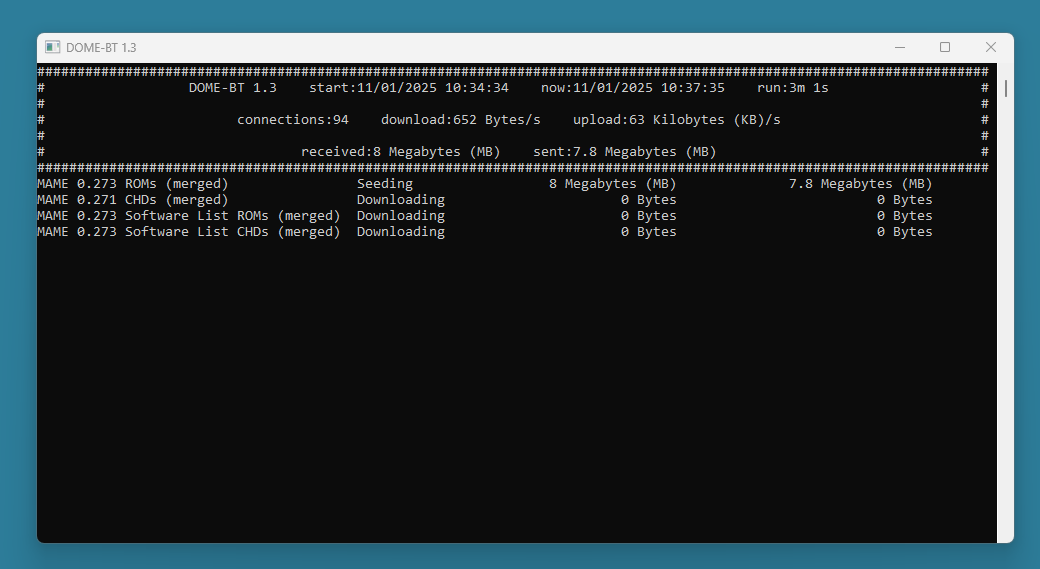
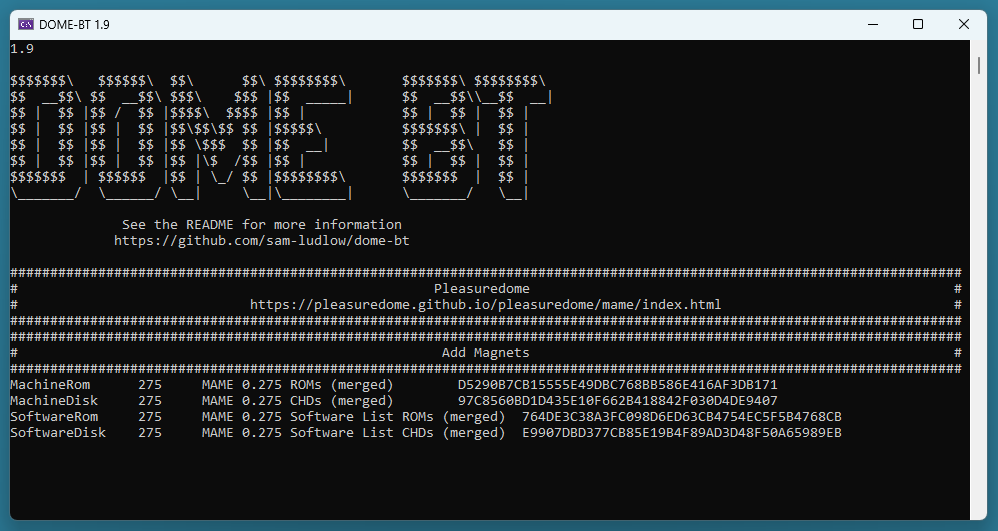
API files on seperate EP, clear old cache files

diff --git a/WebServer.cs b/WebServer.cs
@@ -190,6 +190,8 @@ namespace dome_bt
 			
 			json.cache_directory = engine.Settings.CacheDirectory;
 
+			json.priorities = new JArray(Enum.GetNames(typeof(Priority)));
+
 			//
 			// Magnets
 			//
@@ -197,13 +199,23 @@ namespace dome_bt
 			dynamic magnets = new JArray();
 			foreach (AssetType magnetType in Globals.Magnets.Keys)
 			{
+				MagnetInfo info = Globals.Magnets[magnetType];
+
 				dynamic result = new JObject();
 
 				result.type = magnetType.ToString();
-				result.name = Globals.Magnets[magnetType].Name;
-				result.version = Globals.Magnets[magnetType].Version;
-				result.magnet_link = Globals.Magnets[magnetType].Magnet;
-				result.torrent_available = Globals.Magnets[magnetType].TorrentManager != null ? "true" : "false";
+				result.name = info.Name;
+				result.version = info.Version;
+				result.hash = info.Hash;
+				result.magnet_link = info.Magnet;
+
+				result.torrent_available = info.TorrentManager != null ? true : false;
+
+				if (info.MagnetLink != null)
+				{
+					result.announce_urls = new JArray(info.MagnetLink.AnnounceUrls);
+					result.webseeds = new JArray(info.MagnetLink.Webseeds);
+				}
 
 				magnets.Add(result);
 			}
@@ -270,6 +282,7 @@ namespace dome_bt
 				dynamic result = new JObject();
 
 				result.name = torrentManager.Name;
+				result.hash = torrentManager.MagnetLink.InfoHashes.V1OrV2.ToHex();
 				result.file_count = torrentManager.Files.Count;
 				result.state = torrentManager.State.ToString();
 				result.has_metadata = torrentManager.HasMetadata;
@@ -289,22 +302,6 @@ namespace dome_bt
 				result.bytes_received_text = Tools.DataSizeText(torrentManager.Monitor.DataBytesReceived);
 				result.bytes_sent_text = Tools.DataSizeText(torrentManager.Monitor.DataBytesSent);
 
-				dynamic files = new JArray();
-
-				foreach (var fileInfo in torrentManager.Files.Where(f => f.Priority != Priority.DoNotDownload && f.Priority != Priority.Normal))
-				{
-					dynamic file = new JObject();
-
-					file.path = fileInfo.Path;
-					file.priority = fileInfo.Priority.ToString();
-					file.length = fileInfo.Length;
-					file.percent_complete = fileInfo.BitField.PercentComplete;
-
-					files.Add(file);
-
-				}
-				result.files = files;
-
 				torrents.Add(result);
 			}
 			json.torrents = torrents;
@@ -312,16 +309,37 @@ namespace dome_bt
 			writer.WriteLine(json.ToString(Formatting.Indented));
 		}
 
-		// depreciated
-		public void _api_download(HttpListenerContext context, StreamWriter writer)
+		public void _api_files(HttpListenerContext context, StreamWriter writer)
 		{
-			string filename = context.Request.QueryString["filename"] ?? throw new ApplicationException("filename not passed");
+			string hash = context.Request.QueryString["hash"] ?? throw new ApplicationException("hash not passed");
 
-			context.Response.Headers["Content-Type"] = "application/octet-stream";
-			context.Response.Headers["Content-Disposition"] = $"attachment; filename=\"{Path.GetFileName(filename)}\"";
+			if (Globals.BitTorrent.TorrentManagers.ContainsKey(hash) == false)
+				throw new ApplicationException("hash not found");
 
-			using (FileStream fileStream = new FileStream(filename, FileMode.Open, FileAccess.Read))
-				fileStream.CopyTo(context.Response.OutputStream);
+			string priority = context.Request.QueryString["priority"];
+
+			TorrentManager manager = Globals.BitTorrent.TorrentManagers[hash];
+
+			var managerFiles = manager.Files;
+			if (priority != null)
+				managerFiles = manager.Files.Where(f => f.Priority == (Priority)Enum.Parse(typeof(Priority), priority)).ToList();
+
+			JArray files = new JArray();
+
+			foreach (var fileInfo in managerFiles)
+			{
+				dynamic file = new JObject();
+
+				file.path = fileInfo.Path;
+				file.priority = fileInfo.Priority.ToString();
+				file.length = fileInfo.Length;
+				file.piece_count = fileInfo.PieceCount;
+				file.percent_complete = fileInfo.BitField.PercentComplete;
+
+				files.Add(file);
+			}
+
+			writer.WriteLine(files.ToString(Formatting.Indented));
 		}
 
 		public void _api_file(HttpListenerContext context, StreamWriter writer)
@@ -406,9 +424,6 @@ namespace dome_bt
 			file.piece_start_index = fileInfo.StartPieceIndex;
 			file.piece_count = fileInfo.PieceCount;
 
-			// depreciated
-			file.url = $"{Globals.ListenAddress}api/download?filename={Uri.EscapeDataString(fileInfo.FullPath)}";
-
 			writer.WriteLine(file.ToString(Formatting.Indented));
 
 		}
@@ -455,6 +470,9 @@ namespace dome_bt
 
 <h4>Software Disk</h4>
 <a href=""http://localhost:12381/api/file?list=@&software=@&disk=@"" target=""_blank"" >http://localhost:12381/api/file?list=@&software=@&disk=@</a>
+
+<h4>Torrent File List</h4>
+<a href=""http://localhost:12381/api/files?hash=@&priority=@"" target=""_blank"" >http://localhost:12381/api/files?hash=@&priority=@</a>
 
 </body>
 </html>

diff --git a/Processor.cs b/Processor.cs
@@ -6,6 +6,7 @@ using System.Diagnostics;
 using System.Collections.Generic;
 
 using MonoTorrent.Client;
+using MonoTorrent;
 
 namespace dome_bt
 {
@@ -70,6 +71,8 @@ namespace dome_bt
 		public string Name;
 		public string Version;
 		public string Magnet;
+		public string Hash;
+		public MagnetLink MagnetLink;
 
 		public TorrentManager TorrentManager;
 	}
@@ -77,20 +80,18 @@ namespace dome_bt
 	public class Processor
 	{
 		private readonly string WelcomeText = @"@VERSION
-'########:::'#######::'##::::'##:'########::::::::::'########::'########:
- ##.... ##:'##.... ##: ###::'###: ##.....::::::::::: ##.... ##:... ##..::
- ##:::: ##: ##:::: ##: ####'####: ##:::::::::::::::: ##:::: ##:::: ##::::
- ##:::: ##: ##:::: ##: ## ### ##: ######:::'#######: ########::::: ##::::
- ##:::: ##: ##:::: ##: ##. #: ##: ##...::::........: ##.... ##:::: ##::::
- ##:::: ##: ##:::: ##: ##:.:: ##: ##:::::::::::::::: ##:::: ##:::: ##::::
- ########::. #######:: ##:::: ##: ########:::::::::: ########::::: ##::::
-........::::.......:::..:::::..::........:::::::::::........::::::..:::::
+
+$$$$$$$\   $$$$$$\  $$\      $$\ $$$$$$$$\       $$$$$$$\ $$$$$$$$\ 
+$$  __$$\ $$  __$$\ $$$\    $$$ |$$  _____|      $$  __$$\\__$$  __|
+$$ |  $$ |$$ /  $$ |$$$$\  $$$$ |$$ |            $$ |  $$ |  $$ |   
+$$ |  $$ |$$ |  $$ |$$\$$\$$ $$ |$$$$$\          $$$$$$$\ |  $$ |   
+$$ |  $$ |$$ |  $$ |$$ \$$$  $$ |$$  __|         $$  __$$\   $$ |   
+$$ |  $$ |$$ |  $$ |$$ |\$  /$$ |$$ |            $$ |  $$ |  $$ |   
+$$$$$$$  | $$$$$$  |$$ | \_/ $$ |$$$$$$$$\       $$$$$$$  |  $$ |   
+\_______/  \______/ \__|     \__|\________|      \_______/   \__|   
 
               See the README for more information
              https://github.com/sam-ludlow/dome-bt
-
-            More information can be found at MAME-AO
-https://github.com/sam-ludlow/mame-ao?tab=readme-ov-file#bittorrent
 
 ";
 
@@ -104,8 +105,6 @@ https://github.com/sam-ludlow/mame-ao?tab=readme-ov-file#bittorrent
 
 			WebServer webServer = new WebServer();
 			webServer.StartListener();
-
-			//	Process.Start(new ProcessStartInfo(Globals.ListenAddress) { UseShellExecute = true });
 
 			Globals.BitTorrent = new BitTorrent();
 			Globals.BitTorrent.Run();

diff --git a/BitTorrent.cs b/BitTorrent.cs
@@ -15,6 +15,8 @@ namespace dome_bt
 	{
 		public ClientEngine Engine;
 
+		public Dictionary<string, TorrentManager> TorrentManagers = new Dictionary<string, TorrentManager>();
+
 		private CancellationTokenSource Cancellation = new CancellationTokenSource();
 
 		private int MaximumConnectionsPerTorrent = 50;
@@ -114,14 +116,17 @@ namespace dome_bt
 				if (MagnetLink.TryParse(magnetInfo.Magnet, out magnetLink) == false)
 					throw new ApplicationException($"Bad magnet link: {magnetInfo.Magnet}");
 
+				magnetInfo.MagnetLink = magnetLink;
+
 				var torrentSettings = new TorrentSettingsBuilder
 				{
 					MaximumConnections = MaximumConnectionsPerTorrent,
 				};
 
 				magnetInfo.TorrentManager = await Engine.AddAsync(magnetLink, Globals.DirectoryDownloads, torrentSettings.ToSettings());
+				magnetInfo.Hash = magnetLink.InfoHashes.V1OrV2.ToHex();
 
-				Console.WriteLine($"{assetType}	{magnetInfo.Version}	{magnetInfo.Name}");
+				Console.WriteLine($"{assetType}	{magnetInfo.Version}	{magnetInfo.Name}	{magnetInfo.Hash}");
 
 				pad = Math.Max(pad, magnetInfo.Name.Length);
 			}
@@ -164,11 +169,28 @@ namespace dome_bt
 
 					await manager.StartAsync();
 
+					TorrentManagers.Add(manager.MagnetLink.InfoHashes.V1OrV2.ToHex(), manager);
+
 					Console.WriteLine($"{name}	READY	{manager.Files.Count}");
 				}));
 			}
 
 			await Task.WhenAll(managerTasks);
+
+			//
+			// Clear old torrent cache files
+			//
+			foreach (string directory in new string[] { Path.Combine(Globals.DirectoryCache, "fastresume"), Path.Combine(Globals.DirectoryCache, "metadata") })
+			{
+				if (Directory.Exists(directory) == true)
+				{
+					foreach (string filename in Directory.GetFiles(directory))
+					{
+						if (TorrentManagers.ContainsKey(Path.GetFileNameWithoutExtension(filename)) == false)
+							File.Delete(filename);
+					}
+				}
+			}
 
 			Globals.ReadyTime = DateTime.Now;
 

diff --git a/Properties/AssemblyInfo.cs b/Properties/AssemblyInfo.cs
@@ -29,5 +29,5 @@ using System.Runtime.InteropServices;
 //      Build Number
 //      Revision
 //
-[assembly: AssemblyVersion("1.8")]
-[assembly: AssemblyFileVersion("1.8")]
+[assembly: AssemblyVersion("1.9")]
+[assembly: AssemblyFileVersion("1.9")]

diff --git a/README.md b/README.md
@@ -9,12 +9,6 @@ BitTorrent client for Pleasuredome. For use with `MAME-AO`.
 
 https://github.com/sam-ludlow/mame-ao
 
-## System requirements
-- Windows with .net framework 4.8
-- 32 bit / 64 bit
-- 0.5 Gb RAM free
-- Lots Gb DISK free
-
 ## Building from Source
 If you don't trust me you can build from source.
 
